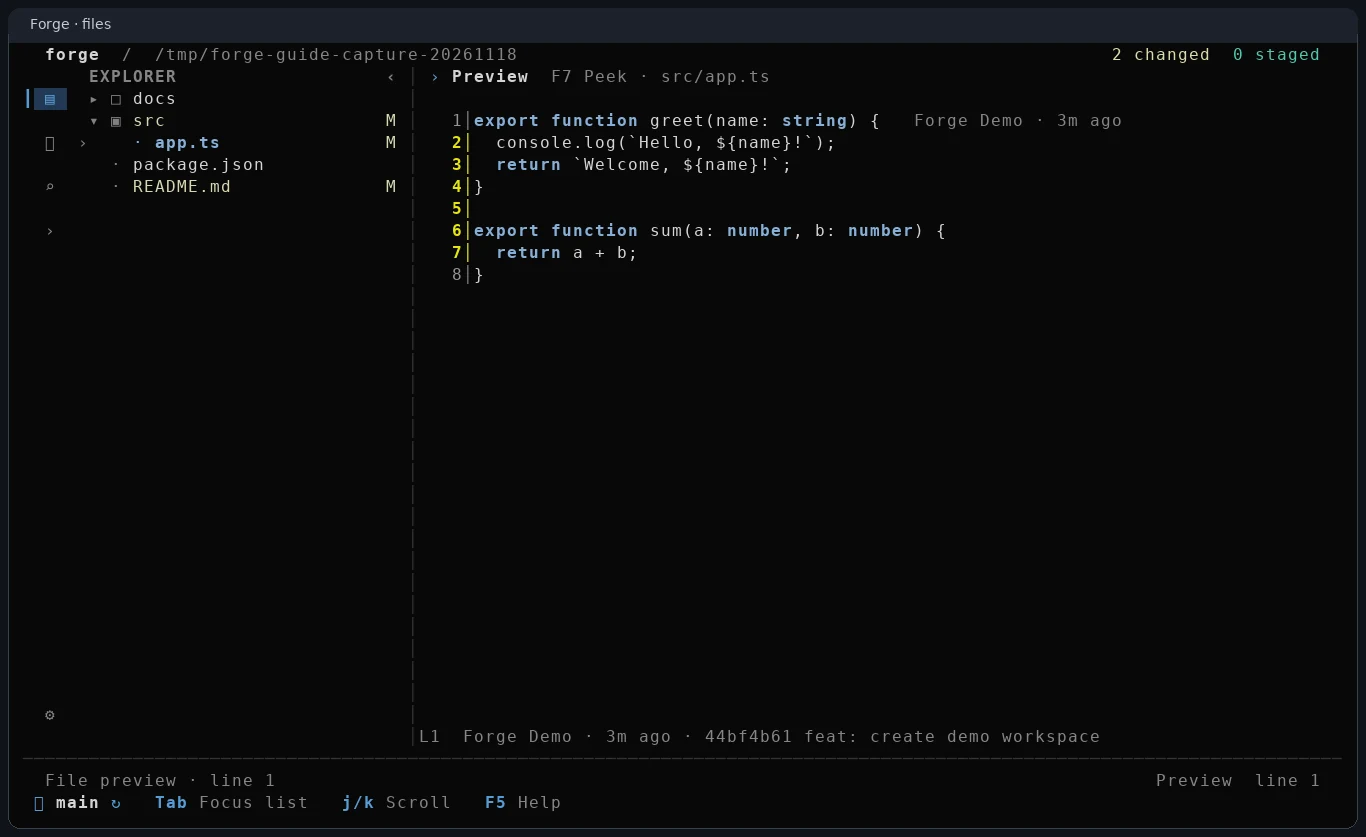
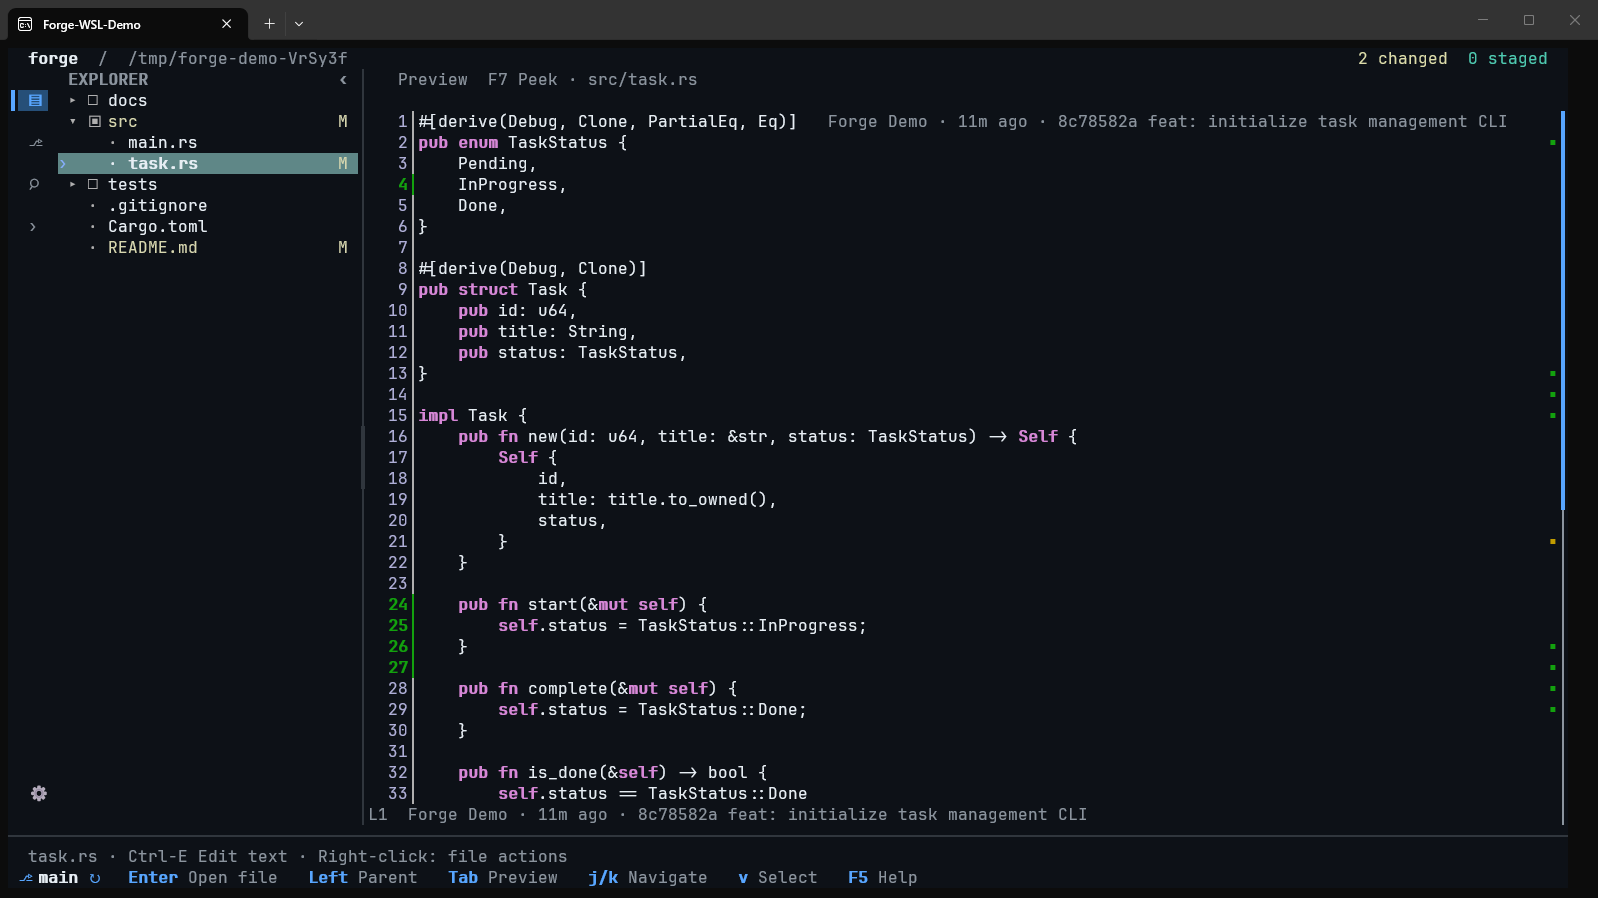
docs: refresh Forge website with real WSL terminal screenshots

diff --git a/web/src/styles/landing.css b/web/src/styles/landing.css
@@ -301,7 +301,7 @@
 
 .stage-viewport {
   position: relative;
-  aspect-ratio: 1366 / 837;
+  aspect-ratio: 1598 / 898;
   background: #0b0e14;
   overflow: hidden;
 }
